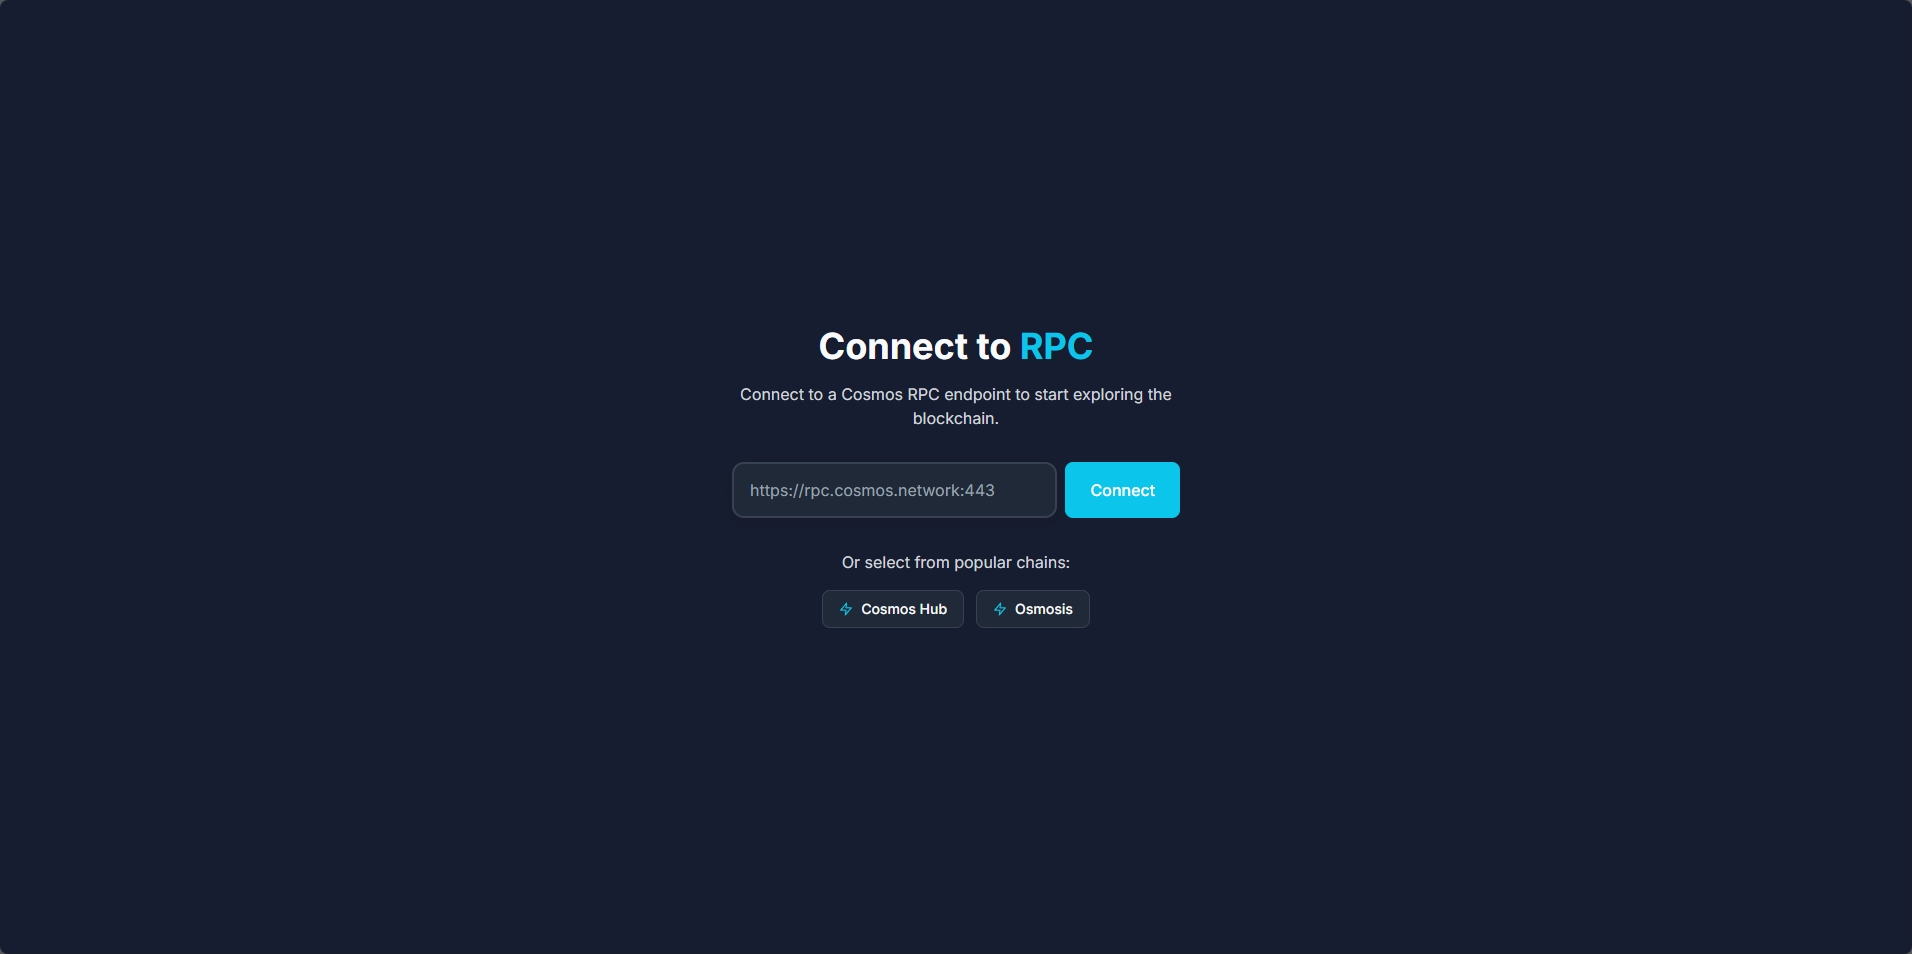
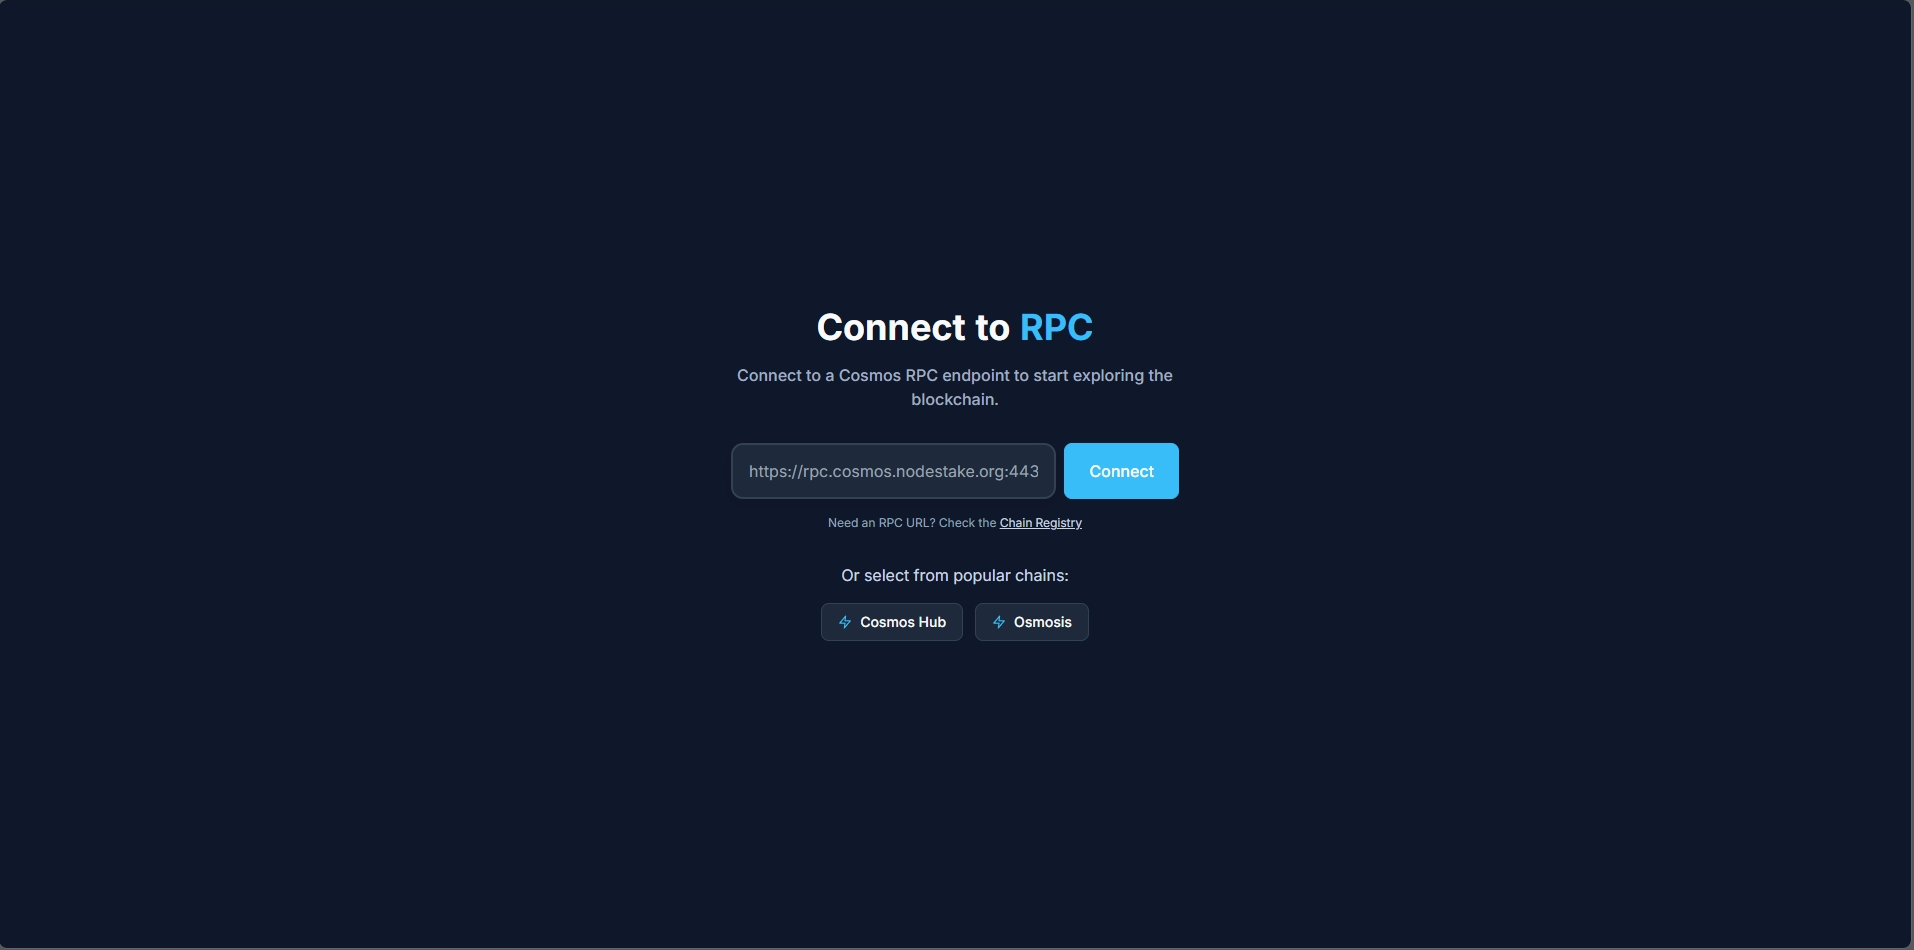
docs: update README with enhanced feature list and project structure
- Update feature list with WebSocket, i18n, and animation details
- Expand tech stack sections with specific libraries and tools
- Increase Node.js version requirement from v18 to v22
- Update example RPC endpoint
- Provide more detailed and organized project structure
- Update PNG assets in public directory

Changed region(s): [[0.3703, 0.3053, 0.6172, 0.6716], [0.9874, 0.0, 1.0, 1.0]]

diff --git a/README.md b/README.md
@@ -86,44 +86,60 @@ _Connect to any Cosmos RPC endpoint and start exploring!_
 ## ✨ Features
 
 - 🔗 **Universal Connectivity**: Connect to any Cosmos-based RPC endpoint
-- 📊 **Real-time Dashboard**: Monitor chain activity with live updates
+- 📊 **Real-time Dashboard**: Monitor chain activity with live updates via WebSocket
 - 🔔 **Live Subscriptions**: Subscribe to latest blocks and transactions
 - 🔍 **Powerful Search**: Find blocks, transactions, and accounts instantly
 - 👥 **Validator Insights**: Browse active validators and their details
 - 🗳 **Governance**: Explore proposals and voting results
 - ⚙ **Chain Parameters**: View blockchain configuration and parameters
 - 📱 **Responsive Design**: Works seamlessly on desktop and mobile
-- 🎨 **Modern UI**: Clean, intuitive interface with dark/light themes
+- 🎨 **Modern UI**: Clean, intuitive interface with dark/light themes and smooth animations
+- 🌍 **Internationalization**: Multi-language support (i18n)
 - ⚡ **Zero Backend**: No database or server infrastructure needed
 
 ## 🛠 Tech Stack
 
-### Frontend
+### Frontend Core
 
 - **React 18** - Modern React with hooks and concurrent features
 - **TypeScript** - Type-safe development
 - **Vite** - Lightning-fast build tool and dev server
 - **Tailwind CSS** - Utility-first CSS framework
+
+### State & Data Management
+
+- **Redux Toolkit** - Global application state
 - **Zustand** - Lightweight state management
+- **TanStack Query** - Server state management and caching
 - **React Router** - Client-side routing
 
 ### Blockchain Integration
 
-- **CosmJS** - Cosmos SDK JavaScript library
-- **WebSocket RPC** - Real-time blockchain data
+- **CosmJS** - Cosmos SDK JavaScript library (@cosmjs/stargate, @cosmjs/tendermint-rpc)
+- **WebSocket RPC** - Real-time blockchain data streaming
 - **Protobuf** - Message encoding/decoding
 
-### Development Tools
+### UI Components & UX
 
+- **Framer Motion** - Smooth animations and transitions
+- **Lucide React & React Icons** - Modern icon sets
+- **Sonner** - Toast notifications
+- **TanStack Table** - Headless UI for building powerful tables
+
+### Development & Quality Assurance
+
+- **Vitest** - Blazing fast unit test framework
+- **React Testing Library** - Component testing
 - **ESLint** - Code linting
 - **Prettier** - Code formatting
+- **Husky & Lint-staged** - Git hooks for code quality
 - **Vercel** - Deployment platform
 
 ## 📋 Prerequisites
 
 Before running Dexplorer, ensure you have:
 
-- **Node.js** (v18.0.0 or higher)
+- **Node.js** (v22.0.0 or higher)
 - **pnpm** (v8.0.0 or higher) - _Recommended package manager_
 - **Git** - For cloning the repository
 
@@ -219,7 +235,7 @@ When these variables are set:
    Open [http://localhost:5173](http://localhost:5173) in your browser
 
 2. **Connect to a Blockchain**
-   - Enter a Cosmos RPC endpoint (e.g., `https://rpc.cosmos.network:443`)
+   - Enter a Cosmos RPC endpoint (e.g., `https://rpc.cosmos.nodestake.org`)
    - Click "Connect" to establish connection
 
 3. **Explore the Blockchain**
@@ -233,23 +249,25 @@ When these variables are set:
 dexplorer/
 ├── public/                 # Static assets
 ├── src/
-│   ├── components/         # Reusable UI components
-│   │   ├── CodeBlock/      # Code syntax highlighting
-│   │   ├── Layout/         # App layout components
-│   │   └── ui/             # Basic UI components
-│   ├── encoding/           # Message encoding utilities
-│   │   ├── msg.ts          # Message type definitions
-│   │   └── proposal.ts     # Proposal encoding
-│   ├── hooks/              # Custom React hooks
-│   ├── pages/              # Page components
-│   │   ├── AccountDetail.tsx
-│   │   ├── BlockDetail.tsx
-│   │   ├── Dashboard.tsx
-│   │   ├── ProposalDetail.tsx
-│   │   └── TransactionDetail.tsx
-│   ├── store/              # State management
-│   ├── types/              # TypeScript type definitions
-│   ├── utils/              # Utility functions
+│   ├── assets/             # Images and global styles
+│   ├── components/         # UI Components
+│   │   ├── AccountDetail/  # Account-related components
+│   │   ├── BlockDetail/    # Block-related components
+│   │   ├── Connect/        # Connection screen components
+│   │   ├── Datatable/      # Reusable table components
+│   │   ├── Home/           # Dashboard components
+│   │   ├── Layout/         # App layout (Sidebar, Header)
+│   │   ├── ProposalDetail/ # Governance proposal components
+│   │   └── ui/             # Generic UI primitives (Button, Input, etc.)
+│   ├── encoding/           # Protobuf/Amino encoding utilities
+│   ├── hooks/              # Custom React hooks (useBlock, useTx, etc.)
+│   ├── lib/                # Shared libraries and utilities
+│   ├── locales/            # i18n translation files
+│   ├── pages/              # Route page components
+│   ├── rpc/                # RPC client management
+│   ├── store/              # Redux & Zustand stores
+│   ├── theme/              # Theme configuration (colors, providers)
+│   ├── utils/              # Helper functions
 │   └── main.tsx            # Application entry point
 ├── package.json            # Dependencies and scripts
 ├── tailwind.config.js      # Tailwind CSS configuration
